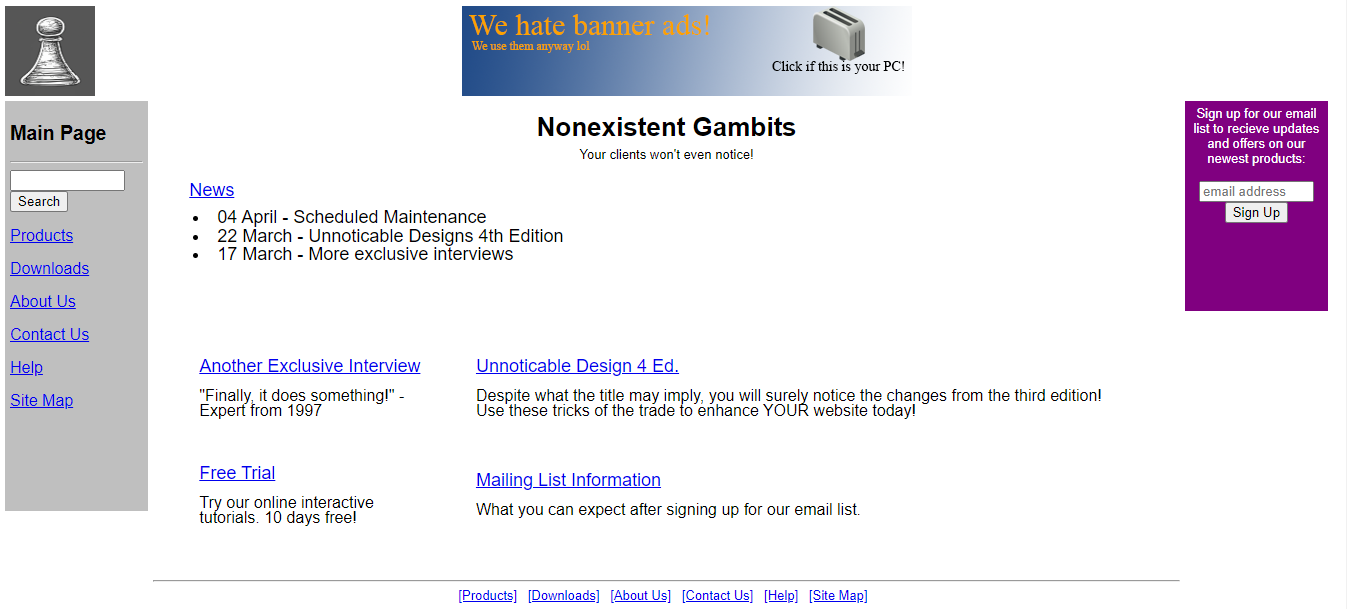
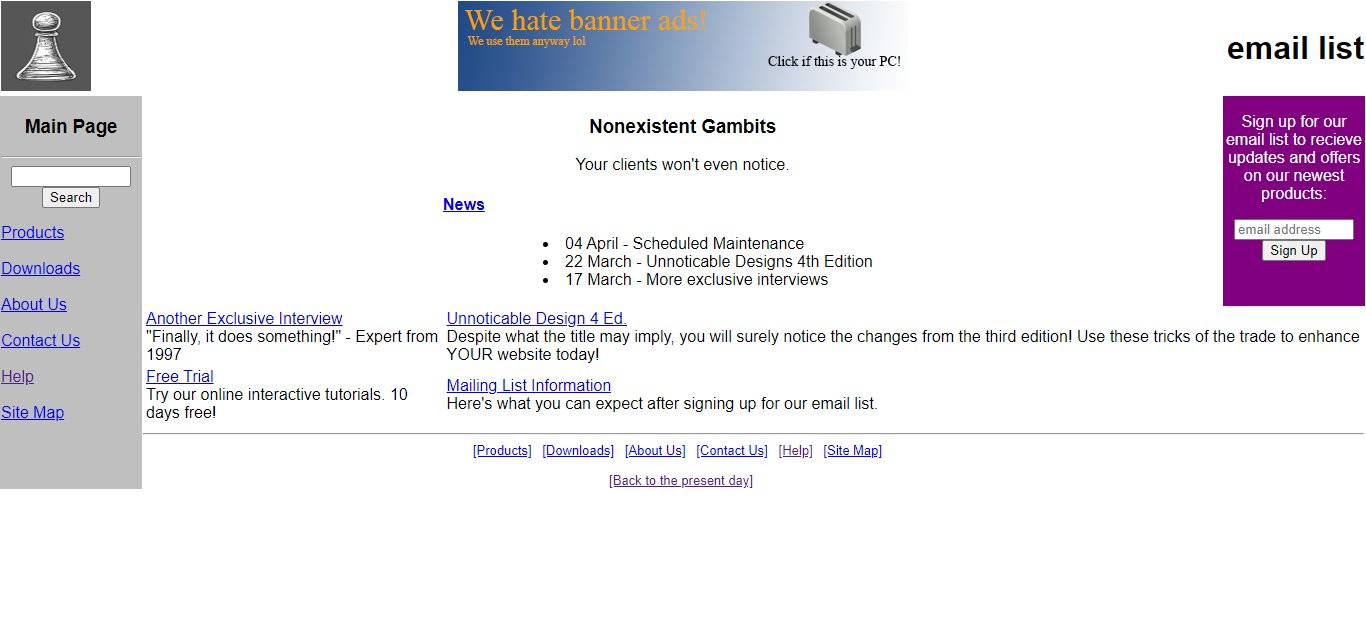
1999 overhaul complete

diff --git a/Explanation1999.html b/Explanation1999.html
@@ -1,129 +1,68 @@
-<!--TODO: Make icons and banner-->
 <!DOCTYPE html>
 <html>
-
-<title>Nonexistent Gambits</title>
-
+    
 <style>
-    header {
-        font-family: sans-serif;
-        
+    *{
+        font-family: Arial, Helvetica, sans-serif;
     }
 
-    body {
-        font-family: sans-serif;
-        font-size: small;
+    table{
+        padding: 0;
+        margin: 0;
     }
-
-    ul{
-        list-style-position: inside;
-    }
-
-    .column{
-        float: left;
-        padding: 5px;
-    }
-
-    .left{
-        width: 10%;
-        height: 400px;
-    }
-
-    .middle{
-        width: 77%;
-        height: 500px;
-        line-height: 120%;
-    }
-
-    .right{
-        width: 10%;
-        height: 200px;
-        text-align: center;
-    }
-
-    .topRowLeft{
-        text-align: left;
-    }
-
-    .topRowCenter{
-        text-align: center;
-        position: relative;
-        right: 30px;
-    }
-
-    .topRowRight{
-        float: right;   
-    }
-
-    .leftColumnText{
-        font-size: medium;
-    }
-
-    .mainContentHeader{
-        text-align: center;
-        position: relative;
-    }
-
-    .center{
-        text-align: center;
-    }
-
-    .bodyContent{
-        font-size: large;
-    }
-
-
 </style>
 
-<!--three column layout-->
+<head>
+    <title>
+        Nonexistent Gambits
+    </title>
+</head>
 
-
-<header>
-    <!--this link goes across the whole header instead of just the logo. I have to keep going though-->
-    <a href="1999.html">
-    <div class="topRowLeft"><img src = "NeG Logo.jpg" width="90px" height="90px"></img></div>
-    </a>
-</header>
-
-<body>
-
-<div class="column left" style="background-color: #bfbfbf;">
-<h2>Help Page</h2>
-<hr>
-<input type="text" style="width: 80%;"> <button type="button">Search</button>
-<br><br>
-<span class="leftColumnText"><a href="1999.html">Home</a></span>
-<br><br>
-<span class="leftColumnText"><a href="#">Products</a></span>
-<br><br>
-<span class="leftColumnText"><a href="#">Downloads</a></span>
-<br><br>
-<span class="leftColumnText"><a href="#">About Us</a></span>
-<br><br>
-<span class="leftColumnText"><a href="#">Contact Us</a></span>
-<br><br>
-<span class="leftColumnText"><a href="#">Site Map</a></span>
-</div>
-
-<div class="column middle">
-    <div class="mainContentHeader"><h1>Principles Behind 1999's User Interface</h1></div>
-    <br>
-    <div style="font-size: medium;">Three-column layouts are here! Websites incorporated more user interactivity as Web 2.0 gained more traction
-    HTML 4.0 had been available for a year. Search mechanisms and site maps started emerging; not necessarily because websites were complicated
-    enough to need them, but because they were easy to implement. Layouts were table-based. I didn't use a table-based layout when creating the
-    1999 page, however. The columns of CSS grid made mimicing a three-column layout much easier!</div>
-    <!--Me want banana-->
-    <br> <br> <br> <br> <br> <br> <br> <br> <br> <br> <br> <br> <br> <br> <br> <br> <br> <br>
-    <footer>
-        <hr>
-        <div class = "center" style="font-size: small;">
-            <a href="1999.html">[Home]</a> &nbsp; <a href="#">[Products]</a> &nbsp; <a href="#">[Downloads]</a> &nbsp; <a href="#">[About Us]</a> &nbsp; <a href="#">[Contact Us]</a> &nbsp; <a href="#">[Site Map]</a> &nbsp; <br><br> <a href="index.html">[Back to the present day]</a>
-        </div>
-    </footer>
-</div>
-
-
+<body marginwidth="0" marginheight="0" leftmargin="0" topmargin="0">
+    <table width="1365px" style="border-spacing: 0;">
+        <!--header-->
+        <tr>
+            <td>
+                <img src="NeG Logo.jpg" width="90px" height="90px">
+            </td>
+            <td style="text-align: center;">
+                <img src="1999Assets/1999Banner.png" width="450px" height="90px">
+            </td>
+            <td style="text-align: right;">
+                
+            </td>
+        </tr>
+        <tr>
+            <td width="140px" rowspan="2" style="background-color: #bfbfbf; text-align: center; vertical-align: top;">
+                <h3>Main Page</h3>
+                <hr>
+                <input type="text" style="width: 80%;"> <button type="button">Search</button>
+                <p style="text-align: left;">
+                <a href="1999.html">Home</a>
+                <br><br>
+                <a href="#">Products</a>
+                <br><br>
+                <a href="#">Downloads</a>
+                <br><br>
+                <a href="#">About Us</a>
+                <br><br>
+                <a href="#">Contact Us</a>
+                <br><br>
+                <a href="#">Site Map</a>
+                </p>
+            </td>
+            
+        </tr>
+        <tr>
+            <td style="vertical-align: top;">
+                <h2>Principles Behind 1999's User Interface</h2>
+                <p>&emsp;Three-column layouts are here! Websites incorporated more user interactivity as websites started to generate cashflow. HTML 4.0 had been available for a year. Search mechanisms and site maps started emerging; not necessarily because websites were complicated enough to need them, but because they were easy to implement. Layouts were table-based.</p>
+                <br><br><br><br><br><br><br><br><br>
+                <hr>
+                <center style="font-size: small;"> <a href="1999.html">[Home]</a> &nbsp; <a href="#">[Products]</a> &nbsp; <a href="#">[Downloads]</a> &nbsp; <a href="#">[About Us]</a> &nbsp; <a href="#">[Contact Us]</a> &nbsp;<a href="#">[Site Map]</a> &nbsp; <br><br> <a href="index.html">[Back to the present day]</a></center>
+            </td>
+        </tr>
+    </table>
 </body>
-
 
 </html>

diff --git a/Explanation1999old.html b/Explanation1999old.html
@@ -1,0 +1,129 @@
+<!--TODO: Make icons and banner-->
+<!DOCTYPE html>
+<html>
+
+<title>Nonexistent Gambits</title>
+
+<style>
+    header {
+        font-family: sans-serif;
+        
+    }
+
+    body {
+        font-family: sans-serif;
+        font-size: small;
+    }
+
+    ul{
+        list-style-position: inside;
+    }
+
+    .column{
+        float: left;
+        padding: 5px;
+    }
+
+    .left{
+        width: 10%;
+        height: 400px;
+    }
+
+    .middle{
+        width: 77%;
+        height: 500px;
+        line-height: 120%;
+    }
+
+    .right{
+        width: 10%;
+        height: 200px;
+        text-align: center;
+    }
+
+    .topRowLeft{
+        text-align: left;
+    }
+
+    .topRowCenter{
+        text-align: center;
+        position: relative;
+        right: 30px;
+    }
+
+    .topRowRight{
+        float: right;   
+    }
+
+    .leftColumnText{
+        font-size: medium;
+    }
+
+    .mainContentHeader{
+        text-align: center;
+        position: relative;
+    }
+
+    .center{
+        text-align: center;
+    }
+
+    .bodyContent{
+        font-size: large;
+    }
+
+
+</style>
+
+<!--three column layout-->
+
+
+<header>
+    <!--this link goes across the whole header instead of just the logo. I have to keep going though-->
+    <a href="1999.html">
+    <div class="topRowLeft"><img src = "NeG Logo.jpg" width="90px" height="90px"></img></div>
+    </a>
+</header>
+
+<body>
+
+<div class="column left" style="background-color: #bfbfbf;">
+<h2>Help Page</h2>
+<hr>
+<input type="text" style="width: 80%;"> <button type="button">Search</button>
+<br><br>
+<span class="leftColumnText"><a href="1999.html">Home</a></span>
+<br><br>
+<span class="leftColumnText"><a href="#">Products</a></span>
+<br><br>
+<span class="leftColumnText"><a href="#">Downloads</a></span>
+<br><br>
+<span class="leftColumnText"><a href="#">About Us</a></span>
+<br><br>
+<span class="leftColumnText"><a href="#">Contact Us</a></span>
+<br><br>
+<span class="leftColumnText"><a href="#">Site Map</a></span>
+</div>
+
+<div class="column middle">
+    <div class="mainContentHeader"><h1>Principles Behind 1999's User Interface</h1></div>
+    <br>
+    <div style="font-size: medium;">Three-column layouts are here! Websites incorporated more user interactivity as Web 2.0 gained more traction
+    HTML 4.0 had been available for a year. Search mechanisms and site maps started emerging; not necessarily because websites were complicated
+    enough to need them, but because they were easy to implement. Layouts were table-based. I didn't use a table-based layout when creating the
+    1999 page, however. The columns of CSS grid made mimicing a three-column layout much easier!</div>
+    <!--Me want banana-->
+    <br> <br> <br> <br> <br> <br> <br> <br> <br> <br> <br> <br> <br> <br> <br> <br> <br> <br>
+    <footer>
+        <hr>
+        <div class = "center" style="font-size: small;">
+            <a href="1999.html">[Home]</a> &nbsp; <a href="#">[Products]</a> &nbsp; <a href="#">[Downloads]</a> &nbsp; <a href="#">[About Us]</a> &nbsp; <a href="#">[Contact Us]</a> &nbsp; <a href="#">[Site Map]</a> &nbsp; <br><br> <a href="index.html">[Back to the present day]</a>
+        </div>
+    </footer>
+</div>
+
+
+</body>
+
+
+</html>

diff --git a/1999.html b/1999.html
@@ -19,14 +19,14 @@
 </head>
 
 <body marginwidth="0" marginheight="0" leftmargin="0" topmargin="0">
-    <table width="1365px">
+    <table width="1365px" style="border-spacing: 0;">
         <!--header-->
         <tr>
             <td>
                 <img src="NeG Logo.jpg" width="90px" height="90px">
             </td>
             <td style="text-align: center;">
-                <img src="1999Banner.png" width="450px" height="90px">
+                <img src="1999Assets/1999Banner.png" width="450px" height="90px">
             </td>
             <td style="text-align: right;">
                 <h1>email list</h1>
@@ -93,8 +93,8 @@
                     </tr>
                 </table>
                 <hr>
-                <center style="font-size: small;"><a href="#">[Products]</a> &nbsp; <a href="#">[Downloads]</a> &nbsp; <a href="#">[About Us]</a> &nbsp; <a href="#">[Contact Us]</a> &nbsp; <a href="Explanation1999.html">
-                    [Help]</a> &nbsp; <a href="#">[Site Map]</a> &nbsp; <br><br> <a href="index.html">[Back to the present day]</a></center>
+                <div style="font-size: small; text-align: center; padding-right: 145px;"><a href="#">[Products]</a> &nbsp; <a href="#">[Downloads]</a> &nbsp; <a href="#">[About Us]</a> &nbsp; <a href="#">[Contact Us]</a> &nbsp; <a href="Explanation1999.html">
+                    [Help]</a> &nbsp; <a href="#">[Site Map]</a> &nbsp; <br><br> <a href="index.html">[Back to the present day]</a></div>
             </td>
         </tr>
     </table>

diff --git a/index.html b/index.html
@@ -179,7 +179,7 @@ in the future.</p>
             <a href="1999.html">
             <div class="content">
               <h2>1999</h2>
-              <p>(Pending overhaul)Layout still table-based</p>
+              <p>Layout still table-based</p>
               <p><img src="indexAssets/99screen.png"></p>
             </div>
         </div>
